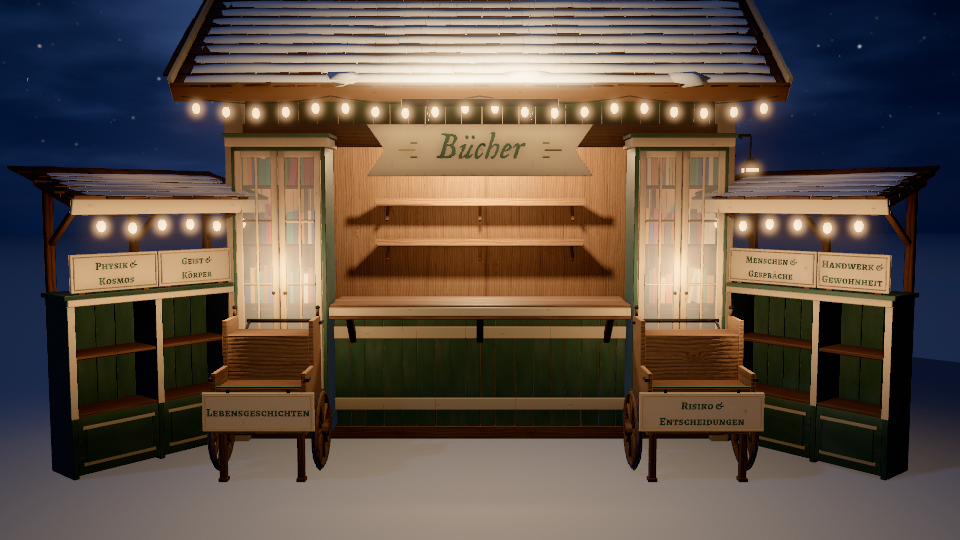
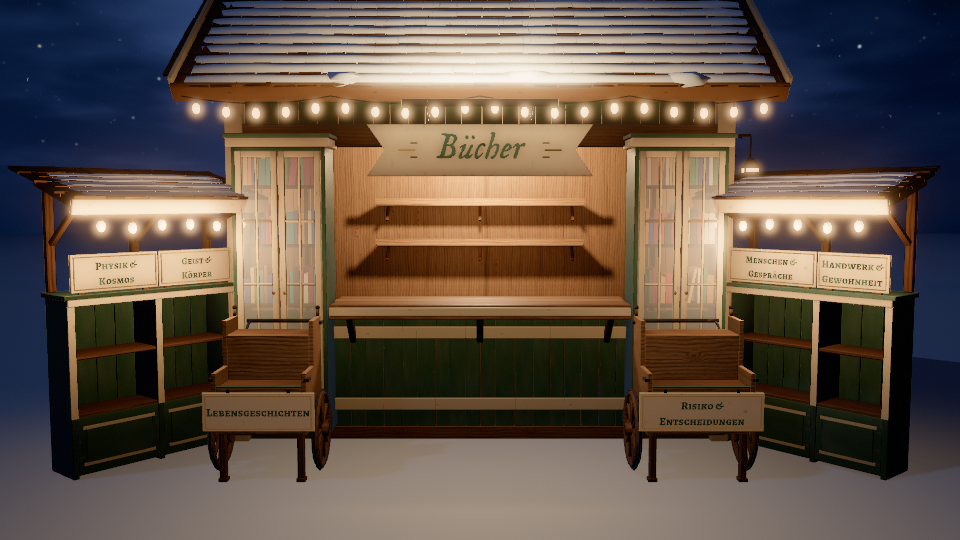
WIP checkpoint: round 4 polish in progress
Claude-Session: https://claude.ai/code/session_01KJfU3a1ZNRu682uWq35pyk

Changed region(s): [[0.5625, 0.1481, 0.9688, 0.7407], [0.0312, 0.1481, 0.4375, 0.7407]]

diff --git a/site/src/lighting/settings.js b/site/src/lighting/settings.js
@@ -147,10 +147,11 @@ export const NIGHT = {
   // string that hangs at least `below` m under its model's top string, is at least `minLength` m long
   // and that no light_ of its model reaches (its middle more than `minAway` m from every light_ empty
   // in plan) gets a one-sided wash glow under it: `down` m lower and `out` m toward the model's
-  // front, along the string with its ends drawn in by `inset` of its length, which lights the board fronts and book spines under the canopy. It is the
+  // front, along the string with its ends drawn in by `inset` of its length, lighting nothing higher
+  // than `ceiling` m under the bulbs (the canopy's own fascia board sits right there and blew out), which lights the board fronts and book spines under the canopy. It is the
   // light those bulbs would throw; strings over a lit stall front (the Glühwein lambrequin, calibrated
   // against Cycles) are left alone.
-  canopy: { intensity: 6, reach: 1.7, down: 0.12, out: 0.3, inset: 0.12, minAway: 1.6, minLength: 0.6, below: 0.15, floor: 0.25, color: [1.0, 0.62, 0.34] },
+  canopy: { intensity: 9, reach: 1.8, down: 0.22, out: 0.3, inset: 0.12, ceiling: 0.12, minAway: 1.6, minLength: 0.6, below: 0.15, floor: 0.25, color: [1.0, 0.62, 0.34] },
 
   // faint cool rim on edges that face the moon, for figures and posts in front of the stalls.
   // It is added as radiance, not multiplied by albedo (the crowd's coats are albedo 0.01-0.07), and

diff --git a/site/src/lighting/index.js b/site/src/lighting/index.js
@@ -283,7 +283,7 @@ export function createLighting({ scene, renderer, camera, lite = false, options 
       const ea = a.clone().lerp(b, C.inset), eb = b.clone().lerp(a, C.inset);
       out.push(shading.add({
         a: ea.setY(y).add(off), b: eb.setY(y).add(off), color: C.color, intensity: C.intensity, reach: C.reach,
-        oneSided: true, floor: base + C.floor, tag: 'canopy', priority: 1,
+        oneSided: true, floor: base + C.floor, ceiling: y - C.ceiling, tag: 'canopy', priority: 1,
       }));
     }
     if (out.length) console.info(`[lighting] ${out.length} canopy wash${out.length > 1 ? 'es' : ''} under the bulb strings of ${model.name || 'a model'}: ${out.map((e) => `${e.a.toArray().map((x) => x.toFixed(2))}..${e.b.toArray().map((x) => x.toFixed(2))}`).join(' | ')}`);
